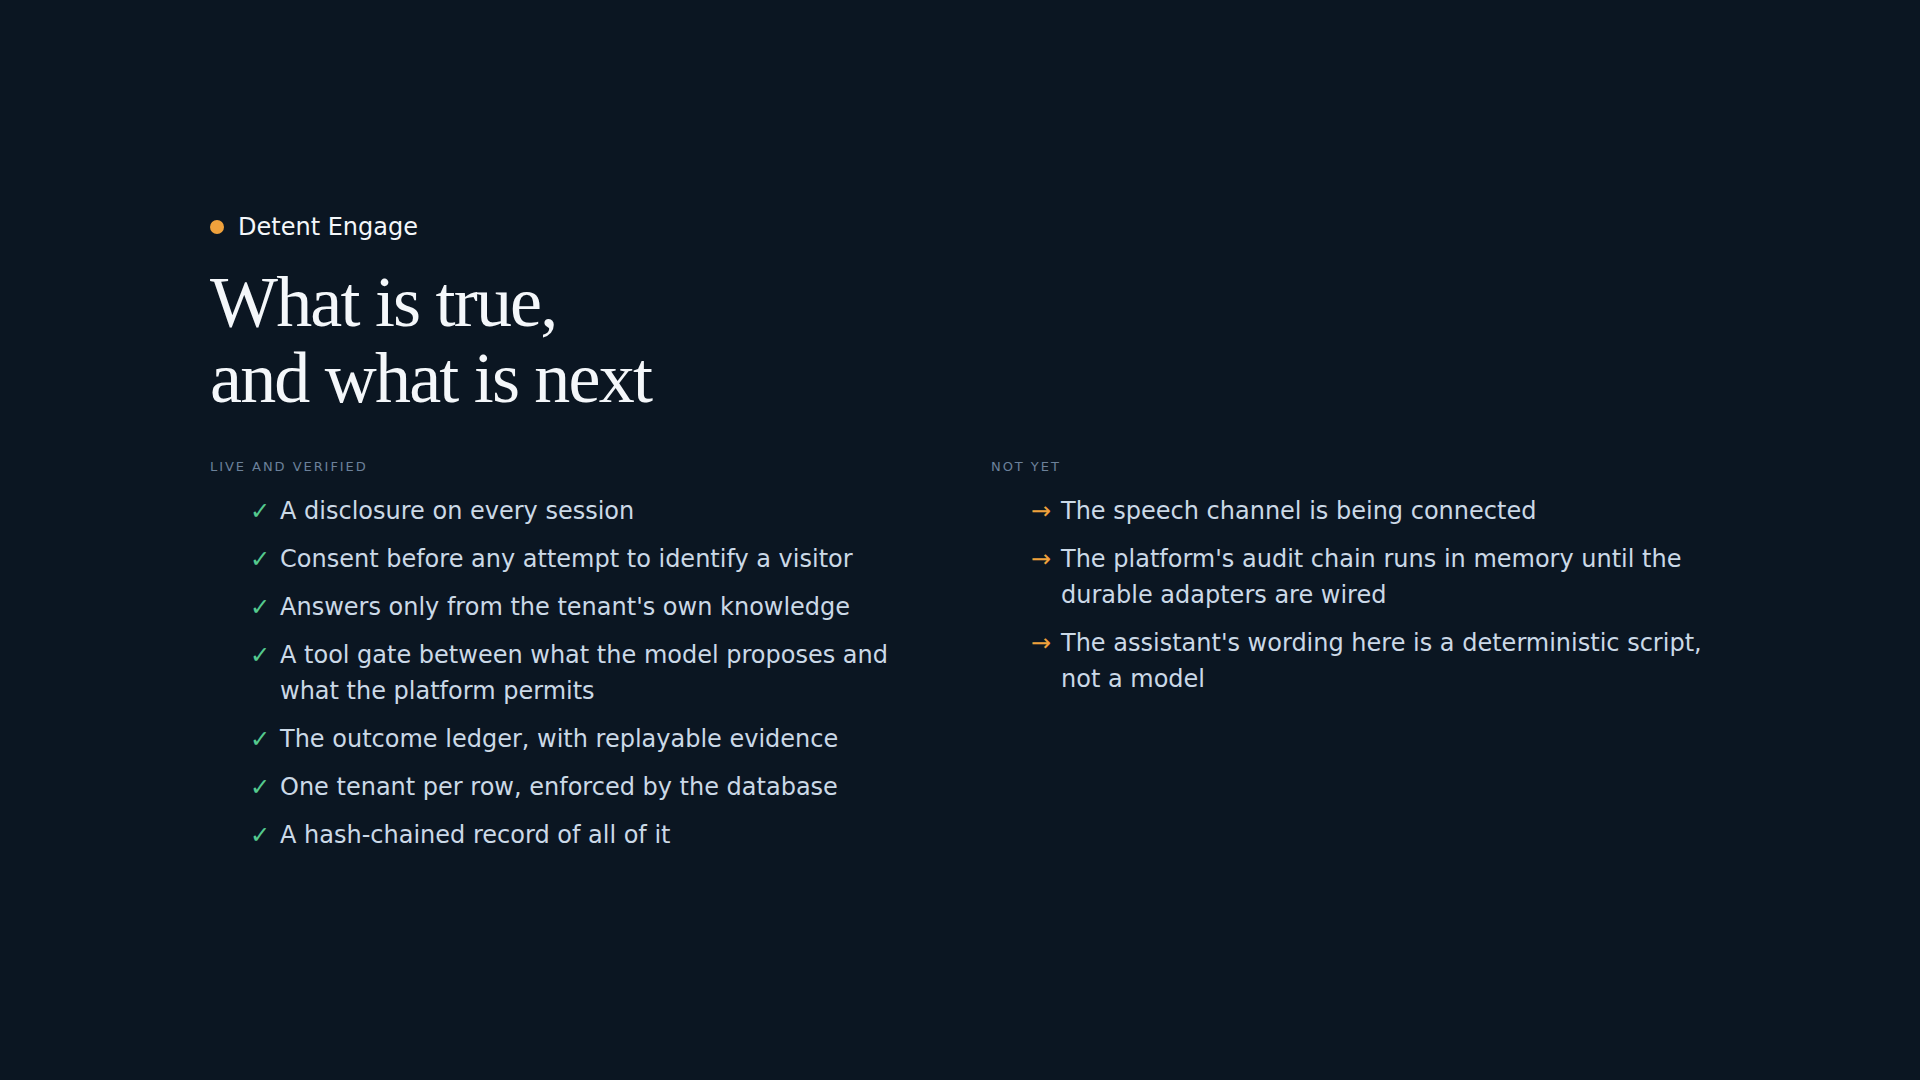
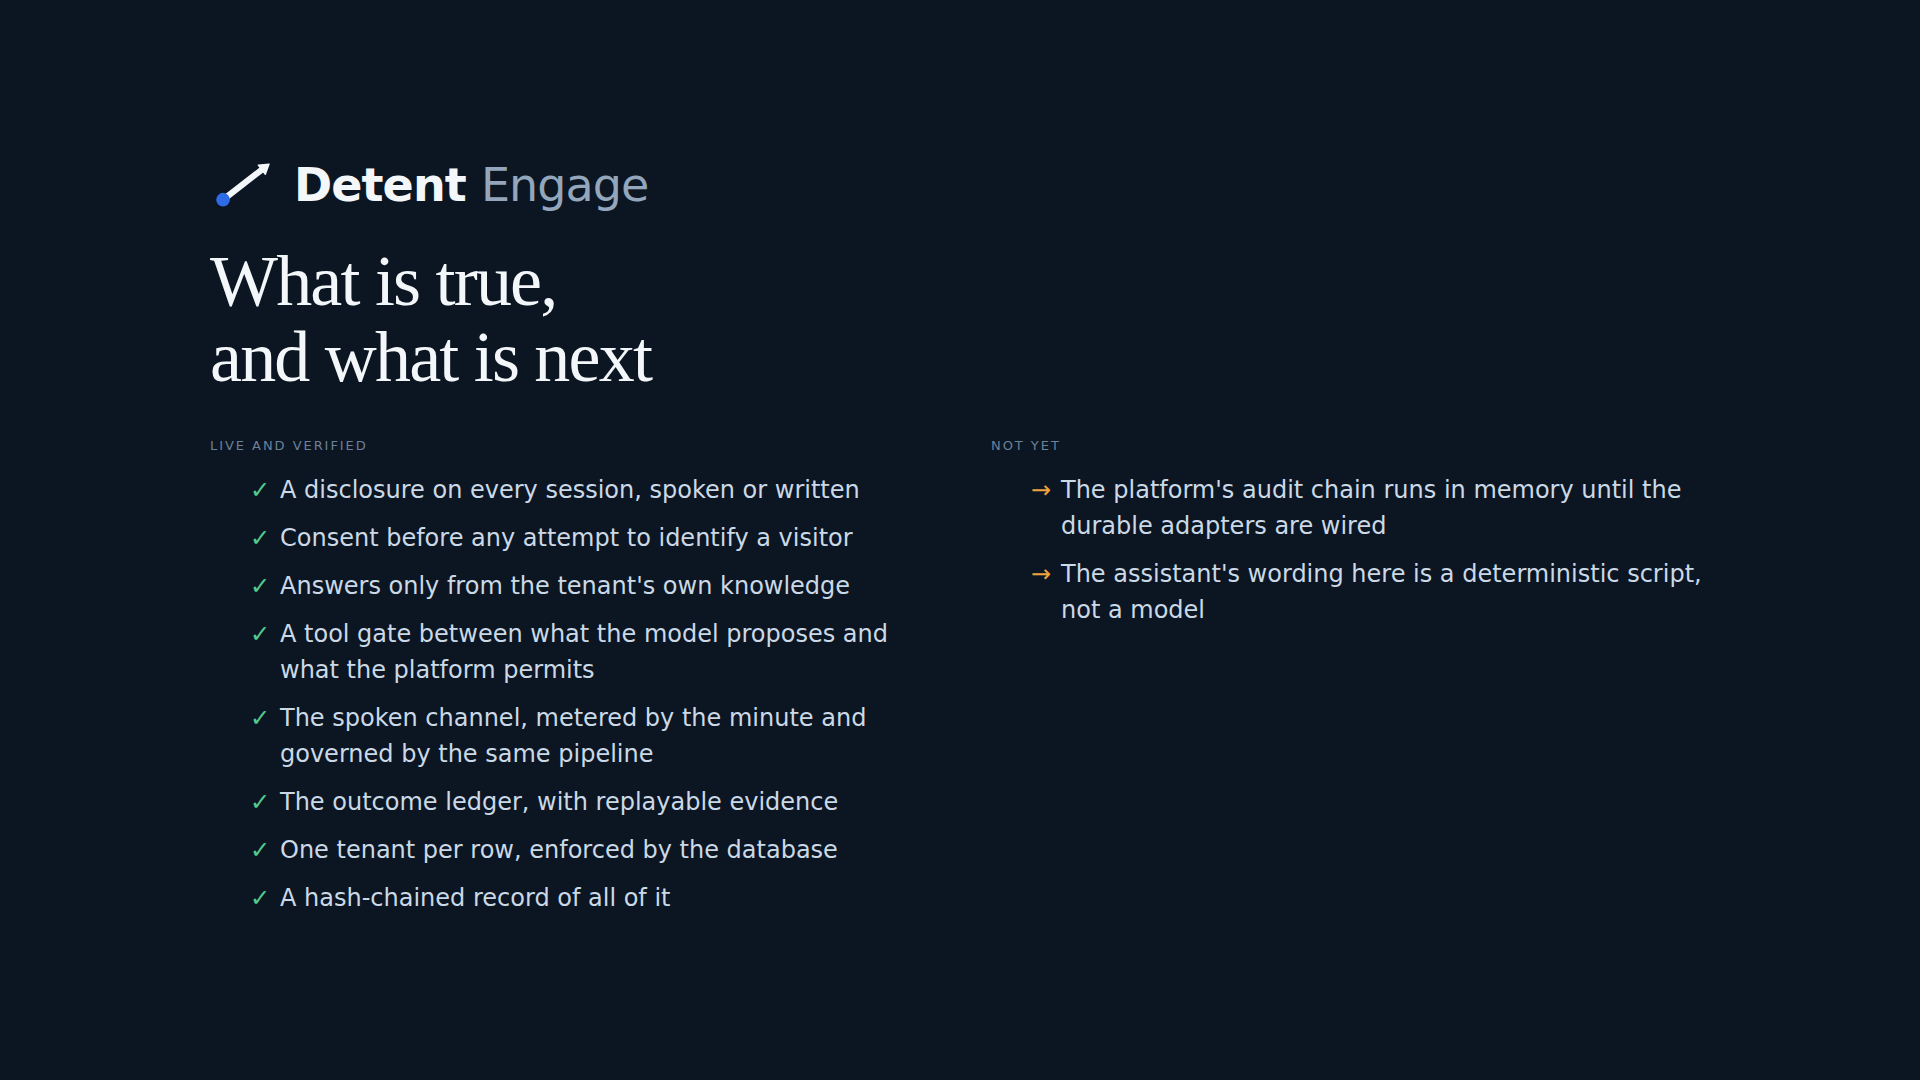
Sign the films off with the Engage mark, and name the brand seam
Every film ended on its product name set in the body serif, which is a
caption of a logo rather than a logo. All four now sign off with the mark.

Which mark took deciding, because there are two Detent identities and they
are not variants of each other. The shipped one is the amber dot and
left-pointing chevron in brand/detent-logo.jpg, rendered by the widget, the
console, the customer app and the marketing site. A separate design canvas
proposes a different system entirely: a module mark is one seated detent
plus a vector, where only the vector's behaviour changes, in a different
gold, a different ink and Space Grotesk.

The films take that canvas's Engage mark: one outbound vector leaving the
seat and not coming back. Over the Recover lockup, because these are Engage
films and Recover is a separate offering. Over the chevron, because the
sign-off is where a sub-brand reads. The product keeps the chevron and the
canvas is superseded for everything else, which brand/brand.md now records
along with the consequence nobody should discover later: a viewer who
watches a film and then opens the website sees two different symbols.

Two things found while doing it:

The walkthrough's closing slide still listed "the speech channel is being
connected" under Not yet. The narration for that scene was re-recorded when
voice was wired; the picture behind it was not, so the film contradicted
itself for one frame. The spoken channel moves to the verified column and
[…]

Changed region(s): [[0.0938, 0.1528, 0.4688, 0.7944], [0.5312, 0.4278, 0.875, 0.6417], [0.1562, 0.825, 0.3438, 0.8556]]

diff --git a/brand/brand.md b/brand/brand.md
@@ -29,3 +29,39 @@ survives the host page's Content Security Policy.
 - The launcher is ink with a white wordmark; the amber dot is the only colour.
 - The `AI` badge on the launcher is never amber. Article 50 disclosure is not
   decoration and must not read as a brand flourish.
+
+## Two marks, and which one wins
+
+There are two Detent identities in circulation and they are not variants of
+each other. This section exists so the next person does not have to work
+that out again.
+
+**The shipped mark, and the authority.** `detent-logo.jpg` above: amber dot,
+left-pointing chevron, ink `#0F1B2A`. It is what the widget, the console,
+the customer app and the marketing site render, and it stays the source of
+truth for the product. A change to it is a change to every screen.
+
+**The logo canvas.** A separate design canvas, titled "Detent Recover —
+Logo", proposes a different system: a module mark is one seated detent plus
+a vector, where only the vector's behaviour changes. Recover's line falls,
+seats on a gold ball and returns above where it started; Engage's leaves the
+same seat on one outbound vector and does not come back. Different symbol,
+different gold (`#CE8A1F`), different ink (`#0D1117`), and Space Grotesk
+rather than the product's faces. The canvas itself notes that the palette,
+the typeface and the Engage sibling were proposed rather than matched,
+because no Engage artwork existed to work from.
+
+**The decision.** The shipped chevron mark remains authoritative and the
+canvas is superseded: nothing in the product is to be rebuilt from it.
+
+**The one exception**, taken deliberately: the films sign off with the
+canvas's Engage mark, drawn inline in `docs/demo/capture/cards.cjs` and
+`docs/demo/capture/frames.cjs`. It was chosen over the Recover lockup
+because these are Engage films and Recover is a separate offering, and over
+the chevron because the sign-off is where the sub-brand reads.
+
+**The consequence, stated rather than discovered.** A viewer who watches a
+film and then opens the website sees two different symbols. That is a real
+inconsistency and it is not resolved by either file: somebody has to decide
+which identity Detent actually has, and until they do, this is where the
+seam is.
